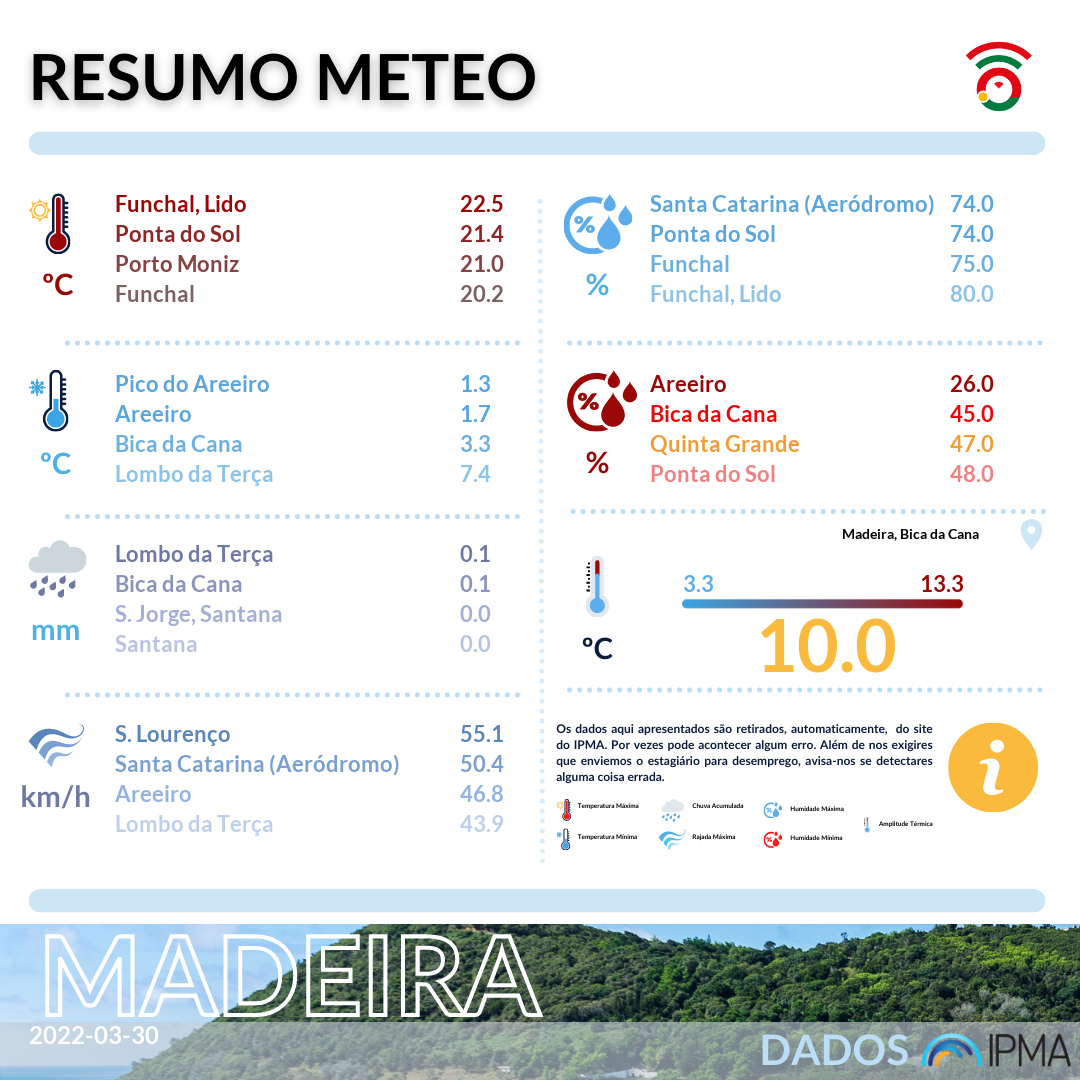
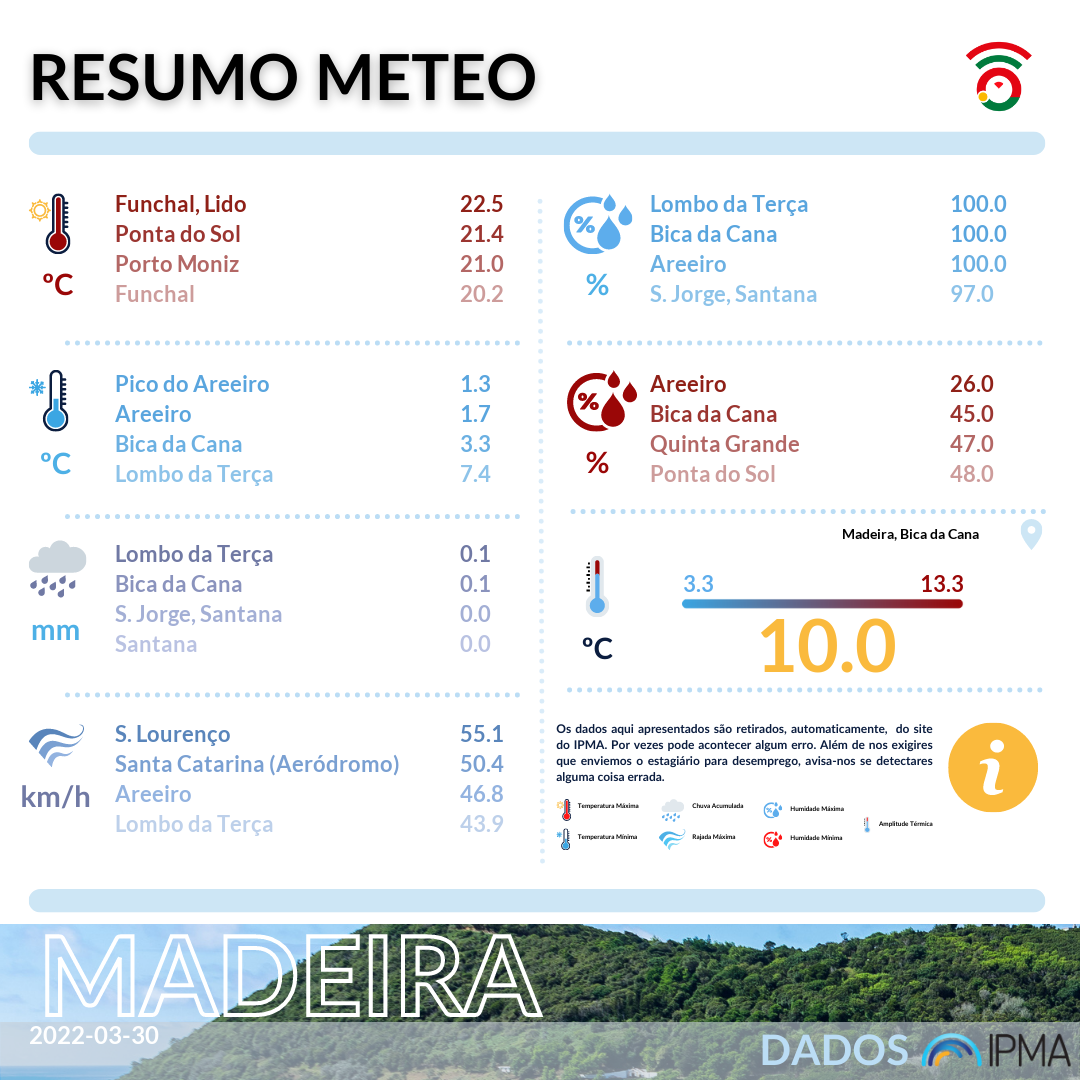
This commit closed #9

diff --git a/app.py b/app.py
@@ -152,9 +152,9 @@ four_hum_min_az = four_hum_min_az[four_hum_min_az.hum_min != -99.0].head(4)
 four_hum_min_pt = four_hum_min_pt[four_hum_min_pt.hum_min != -99.0].head(4)
 
 # Humidity Max
-four_hum_max_mad  = df_madeira_yesterday.sort_values(by=['hum_max'],ascending=True)
-four_hum_max_az = df_azores_yesterday.sort_values(by=['hum_max'],ascending=True)
-four_hum_max_pt = df_portugal_yesterday.sort_values(by=['hum_max'],ascending=True)
+four_hum_max_mad  = df_madeira_yesterday.sort_values(by=['hum_max'],ascending=False)
+four_hum_max_az = df_azores_yesterday.sort_values(by=['hum_max'],ascending=False)
+four_hum_max_pt = df_portugal_yesterday.sort_values(by=['hum_max'],ascending=False)
 
 four_hum_max_mad = four_hum_max_mad[four_hum_max_mad.hum_max != -99.0].head(4)
 four_hum_max_az = four_hum_max_az[four_hum_max_az.hum_max != -99.0].head(4)
@@ -196,10 +196,10 @@ df_amplitude_mad = df_amplitude_mad.sort_values(by=['amplitude'],ascending=False
 
 # Create Colors Lists 
 
-colors_temp_max = [(154,7,7),(144,37,37),(134,67,67),(124,97,97)]
+colors_temp_max = [(143,32,23),(155,53,48),(179,103,101),(205,156,155)]
 colors_temp_min = [(89,165,222),(89,165,222),(107,176,226),(141,195,233)]
 colors_hum_max = [(89,165,222),(89,165,222),(107,176,226),(141,195,233)]
-colors_hum_min = [(154,7,7),(234,9,9),(240,157,57),(239,129,129)]
+colors_hum_min = [(143,32,23),(155,53,48),(179,103,101),(205,156,155)]
 colors_wind_max = [(89,133,187),(122,160,210),(147,179,224),(189,208,234)]
 colors_rain_max = [(112,121,164),(138,147,189),(163,175,213),(185,194,226)]
 
